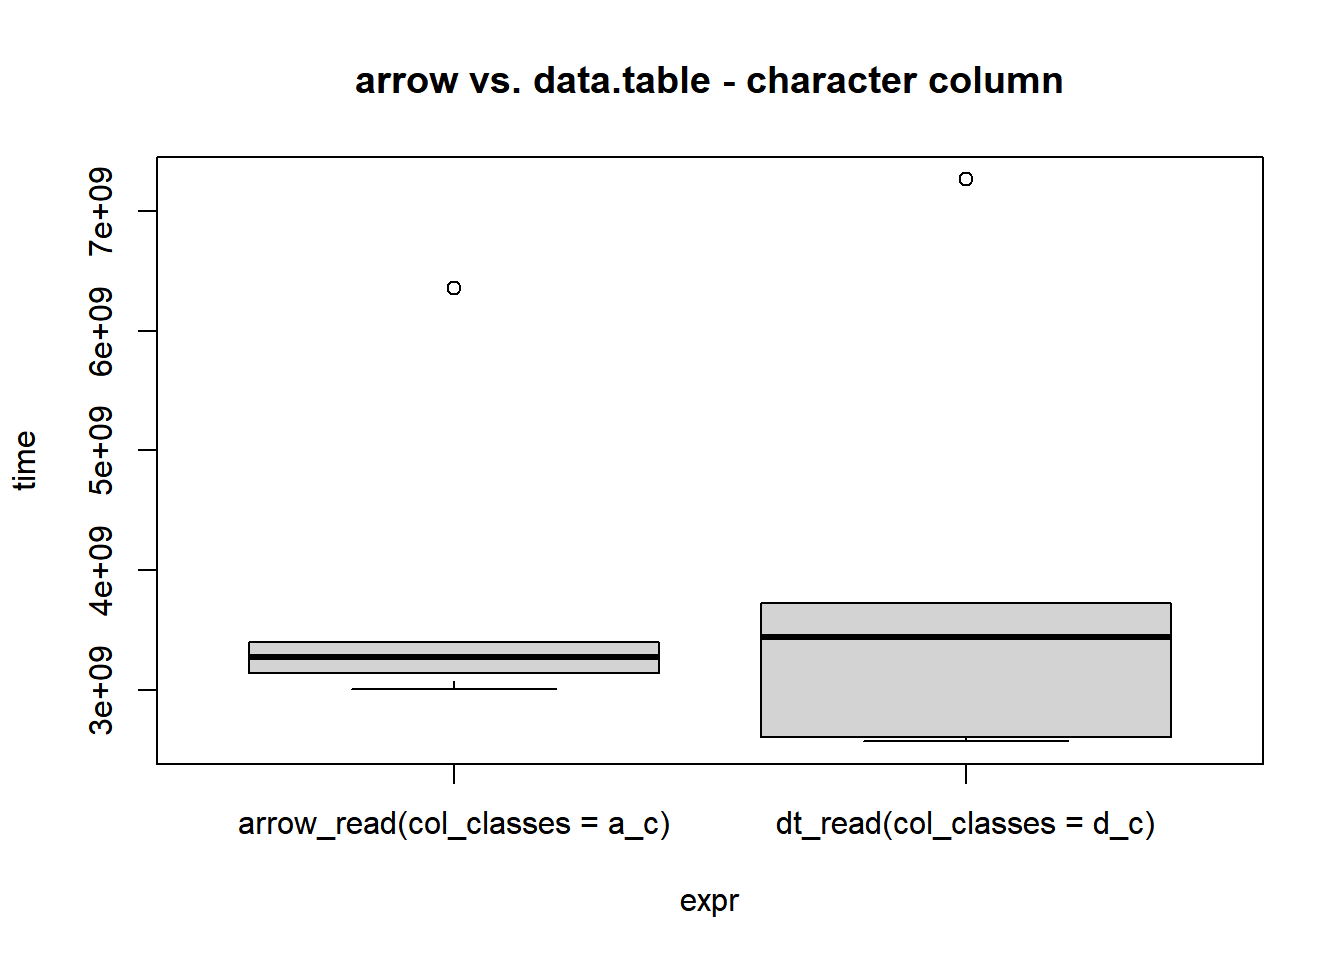
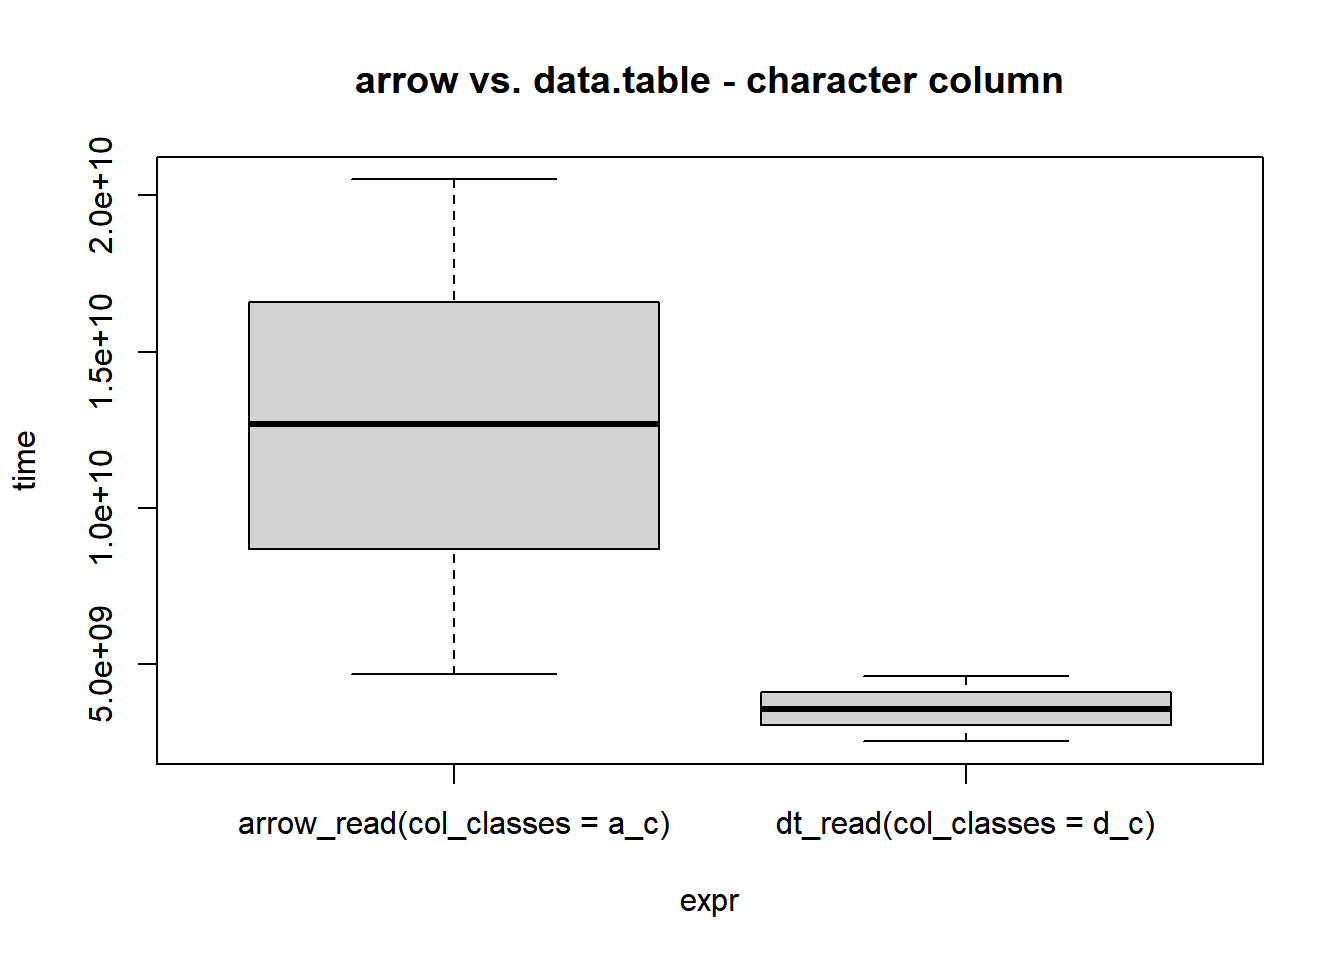
update data.table

diff --git a/content/post/2021-02-17-reading-data-fread-vs-feather/index.en.html b/content/post/2021-02-17-reading-data-fread-vs-feather/index.en.html
@@ -1,7 +1,7 @@
 ---
 title: Reading Data - data.table & arrow
 author: admin
-date: '2021-02-17'
+date: '2021-02-22'
 slug: []
 categories: []
 tags:
@@ -10,7 +10,7 @@ tags:
 subtitle: ''
 summary: ''
 authors: []
-lastmod: '2021-02-19T15:12:05+01:00'
+lastmod: '2021-02-22T15:12:05+01:00'
 featured: no
 image:
   caption: ''
@@ -50,22 +50,23 @@ library(microbenchmark)</code></pre>
 <p>We define two functions, which are calling the <code>arrow</code> or <code>data.table</code> functions.</p>
 <pre class="r"><code>#Calling arrow
 arrow_read &lt;- function() {
-  read_delim_arrow(file = path_to, delim = &quot;\t&quot;,                                                                col_names = FALSE, escape_double = FALSE)
+  read_delim_arrow(file = path_to, delim = &quot;\t&quot;, 
+                   col_names = FALSE)
 }
 #Calling data.table
 dt_read    &lt;- function() {
   fread(file = path_to, sep = &quot;\t&quot;, header = FALSE)
 }</code></pre>
 <p>Using the <code>microbenchmark</code> package, we call the functions five times each and print/plot the results. Each function should be called 3 times as a block.</p>
-<pre class="r"><code>mb &lt;- microbenchmark::microbenchmark(arrow_read(), dt_read(), 
+<pre class="r"><code>mb &lt;- microbenchmark::microbenchmark(dt_read(), arrow_read(),  
                                      times = 3, control = list(order = &quot;block&quot;))</code></pre>
 <pre class="r"><code>print(mb)</code></pre>
-<pre><code>## Unit: seconds
-##          expr       min        lq      mean    median        uq       max neval
-##  arrow_read()  1.128856  1.137955  1.200293  1.147055  1.236012  1.324969     3
-##     dt_read() 10.467963 12.364040 13.964196 14.260117 15.712312 17.164507     3</code></pre>
+<pre><code>## Unit: milliseconds
+##          expr       min        lq      mean    median        uq      max neval
+##     dt_read()  888.8003  900.9147  934.8187  913.0291  957.8279 1002.627     3
+##  arrow_read() 1480.2873 1993.2762 2261.2065 2506.2651 2651.6662 2797.067     3</code></pre>
 <p><img src="{{< blogdown/postref >}}index.en_files/figure-html/default_classes_plot-1.png" width="672" /></p>
-<p>So, <code>arrow::read_delim_arrow</code> is super fast here, but maybe I am overlooking something. We take a look at the objects that are being created</p>
+<p>So, <code>arrow::read_delim_arrow</code> is super fast here, comparable do <code>data.table::fread</code>. We take a look at the objects that are being created.</p>
 <pre class="r"><code>da &lt;- arrow_read()
 str(da)</code></pre>
 <pre><code>## Classes &#39;tbl_df&#39;, &#39;tbl&#39; and &#39;data.frame&#39;:    11353967 obs. of  3 variables:
@@ -75,20 +76,20 @@ str(da)</code></pre>
 <pre class="r"><code>dt &lt;- dt_read()
 str(dt)</code></pre>
 <pre><code>## Classes &#39;data.table&#39; and &#39;data.frame&#39;:   11353967 obs. of  3 variables:
-##  $ V1: chr  &quot;1997-11-01 00:00:00&quot; &quot;1997-11-01 00:10:00&quot; &quot;1997-11-01 00:20:00&quot; &quot;1997-11-01 00:30:00&quot; ...
+##  $ V1: POSIXct, format: &quot;1997-11-01 00:00:00&quot; &quot;1997-11-01 00:10:00&quot; ...
 ##  $ V2: int  329 330 339 354 374 396 419 442 464 484 ...
 ##  $ V3: int  NA NA NA NA NA NA NA NA NA NA ...
 ##  - attr(*, &quot;.internal.selfref&quot;)=&lt;externalptr&gt;</code></pre>
-<p><code>arrow_read()</code> creates a <code>tibble</code> with three columns (f0, f1, f2). With f0 being a <code>POSIXct</code> vector, while <code>dt_read()</code> returns a <code>data.table</code>, with V1 as a character vector. If we want to compare both functions, while returning the same types in each column, we should set the column classes explicitly.</p>
+<p><code>arrow_read()</code> creates a <code>tibble</code> with three columns (f0, f1, f2). With f0 being a <code>POSIXct</code> vector, while <code>dt_read()</code> returns a <code>data.table</code>, with columns V1, V2, V3.</p>
 </div>
 <div id="setting-column-classes" class="section level2">
 <h2>Setting column classes</h2>
-<p>We overwrite the functions setting the column classes.</p>
+<p>We overwrite the functions setting the column classes explicitly.</p>
 <pre class="r"><code>#Calling arrow
 #setting the col_types parameter
 arrow_read &lt;- function(col_classes = c(&quot;tii&quot;) ) {
-  read_delim_arrow(file = path_to, delim = &quot;\t&quot;, escape_double = FALSE, 
-                          col_types = col_classes, col_names = c(&quot;V1&quot;, &quot;V2&quot;, &quot;V3&quot;))
+  read_delim_arrow(file = path_to, delim = &quot;\t&quot;, col_types = col_classes, 
+                   col_names = c(&quot;V1&quot;, &quot;V2&quot;, &quot;V3&quot;))
 }
 #Calling data.table
 #setting the colClasses parameter
@@ -96,38 +97,69 @@ dt_read    &lt;- function(col_classes = c(&quot;POSIXct&quot;, &quot;integer&quo
   fread(file = path_to, sep = &quot;\t&quot;, header = FALSE, tz = &quot;UTC&quot;,
                     colClasses = col_classes)
 }</code></pre>
-<p>We run the benchmark again.</p>
-<pre><code>## Unit: milliseconds
-##          expr      min        lq     mean   median       uq      max neval
-##  arrow_read() 678.2325 2135.4028 2531.679 2753.858 2986.360 4104.540     5
-##     dt_read() 730.0057  773.9883 1369.375 1423.809 1612.917 2306.155     5</code></pre>
-<p><img src="{{< blogdown/postref >}}index.en_files/figure-html/posixct_classes_plot-1.png" width="672" /></p>
-<pre class="r"><code>dt &lt;- dt_read()
-str(dt)</code></pre>
-<pre><code>## Classes &#39;data.table&#39; and &#39;data.frame&#39;:   11353967 obs. of  3 variables:
-##  $ V1: POSIXct, format: &quot;1997-11-01 00:00:00&quot; &quot;1997-11-01 00:10:00&quot; ...
-##  $ V2: int  329 330 339 354 374 396 419 442 464 484 ...
-##  $ V3: int  NA NA NA NA NA NA NA NA NA NA ...
-##  - attr(*, &quot;.internal.selfref&quot;)=&lt;externalptr&gt;</code></pre>
-</div>
-<div id="what-if-i-want-character" class="section level2">
-<h2>What if I want character?</h2>
-<p><code>arrow</code> automatically detects that the first column is a date/time object and reads it as <code>POSIXct</code>, whereas <code>fread</code> defaults to character. Let us assume for now that the first column should be read as a character vector. We can set the parameter of the functions as such:</p>
+<p><code>arrow</code> and <code>data.table</code> automatically detect that the first column is a date/time object and reads it as <code>POSIXct</code>, whereas Let us assume for now that the first column should be read as a character vector. We can set the parameter of the functions as such:</p>
 <pre class="r"><code>a_c &lt;- c(&quot;cii&quot;)
 d_c &lt;- c(&quot;character&quot;, &quot;integer&quot;, &quot;integer&quot;)
 
 mb &lt;- microbenchmark::microbenchmark(arrow_read(col_classes = a_c), 
                                      dt_read(col_classes = d_c), 
-                                     times = 5, control = list(order = &quot;block&quot;))</code></pre>
+                                     times = 3, control = list(order = &quot;block&quot;))</code></pre>
 <p>The results of the benchmark is shown below:</p>
 <pre><code>## Unit: seconds
-##                           expr      min       lq     mean   median       uq
-##  arrow_read(col_classes = a_c) 3.006417 3.138927 3.834311 3.271698 3.396560
-##     dt_read(col_classes = d_c) 2.568249 2.605525 3.920655 3.439121 3.726911
-##       max neval
-##  6.357953     5
-##  7.263471     5</code></pre>
+##                           expr      min       lq      mean    median       uq
+##  arrow_read(col_classes = a_c) 4.699052 8.700987 12.638073 12.702922 16.60758
+##     dt_read(col_classes = d_c) 2.545700 3.061817  3.584553  3.577935  4.10398
+##        max neval
+##  20.512243     3
+##   4.630025     3</code></pre>
 <p><img src="{{< blogdown/postref >}}index.en_files/figure-html/character_column_plot-1.png" width="672" /></p>
+</div>
+<div id="threads" class="section level2">
+<h2>Threads</h2>
+<p>Since I am new to the <code>arrow</code> library, I do not know, how many threads it uses. We can check and set the number of threads for <code>arrow</code> and <code>data.table</code> using built-in functions.</p>
+<pre class="r"><code>arrow::cpu_count()</code></pre>
+<pre><code>## [1] 4</code></pre>
+<pre class="r"><code>data.table::getDTthreads()</code></pre>
+<pre><code>## [1] 2</code></pre>
+<p>This makes we wonder what happens when we set the threads and compare the reader functions again.</p>
+<pre class="r"><code>SetThreads &lt;- function(n_threads = 2L) {
+  arrow::set_cpu_count(num_threads = n_threads)
+  data.table::setDTthreads(threads = n_threads)
+}</code></pre>
+<pre class="r"><code>mb &lt;- vector(mode = &quot;list&quot;, length = 4L)
+
+for(i in 1L:4L) {
+  SetThreads(n_threads = i)
+
+a_c &lt;- c(&quot;cii&quot;)
+d_c &lt;- c(&quot;character&quot;, &quot;integer&quot;, &quot;integer&quot;)
+
+mb[[i]] &lt;- summary(microbenchmark::microbenchmark(arrow_read(col_classes = a_c), 
+                                     dt_read(col_classes = d_c), 
+                                     times = 3, control = list(order = &quot;block&quot;)))
+
+}
+
+mb &lt;- rbindlist(mb, idcol = &quot;threads&quot;)</code></pre>
+<pre class="r"><code>print(mb)</code></pre>
+<pre><code>##    threads                          expr      min       lq     mean   median
+## 1:       1 arrow_read(col_classes = a_c) 5.428651 5.626497 6.997638 5.824344
+## 2:       1    dt_read(col_classes = d_c) 4.964640 5.072506 6.677696 5.180372
+## 3:       2 arrow_read(col_classes = a_c) 4.191114 4.856675 7.376874 5.522235
+## 4:       2    dt_read(col_classes = d_c) 3.442416 4.050537 4.406088 4.658658
+## 5:       3 arrow_read(col_classes = a_c) 3.802427 4.103590 4.213372 4.404753
+## 6:       3    dt_read(col_classes = d_c) 3.240687 3.336594 4.519840 3.432501
+## 7:       4 arrow_read(col_classes = a_c) 2.910719 2.933908 5.316196 2.957097
+## 8:       4    dt_read(col_classes = d_c) 2.460618 2.481157 2.862984 2.501697
+##          uq       max neval
+## 1: 7.782131  9.739919     3
+## 2: 7.534224  9.888076     3
+## 3: 8.969754 12.417272     3
+## 4: 4.887925  5.117191     3
+## 5: 4.418845  4.432937     3
+## 6: 5.159417  6.886333     3
+## 7: 6.518935 10.080773     3
+## 8: 3.064166  3.626636     3</code></pre>
 </div>
 <div id="wrapping-up" class="section level2">
 <h2>Wrapping up</h2>
